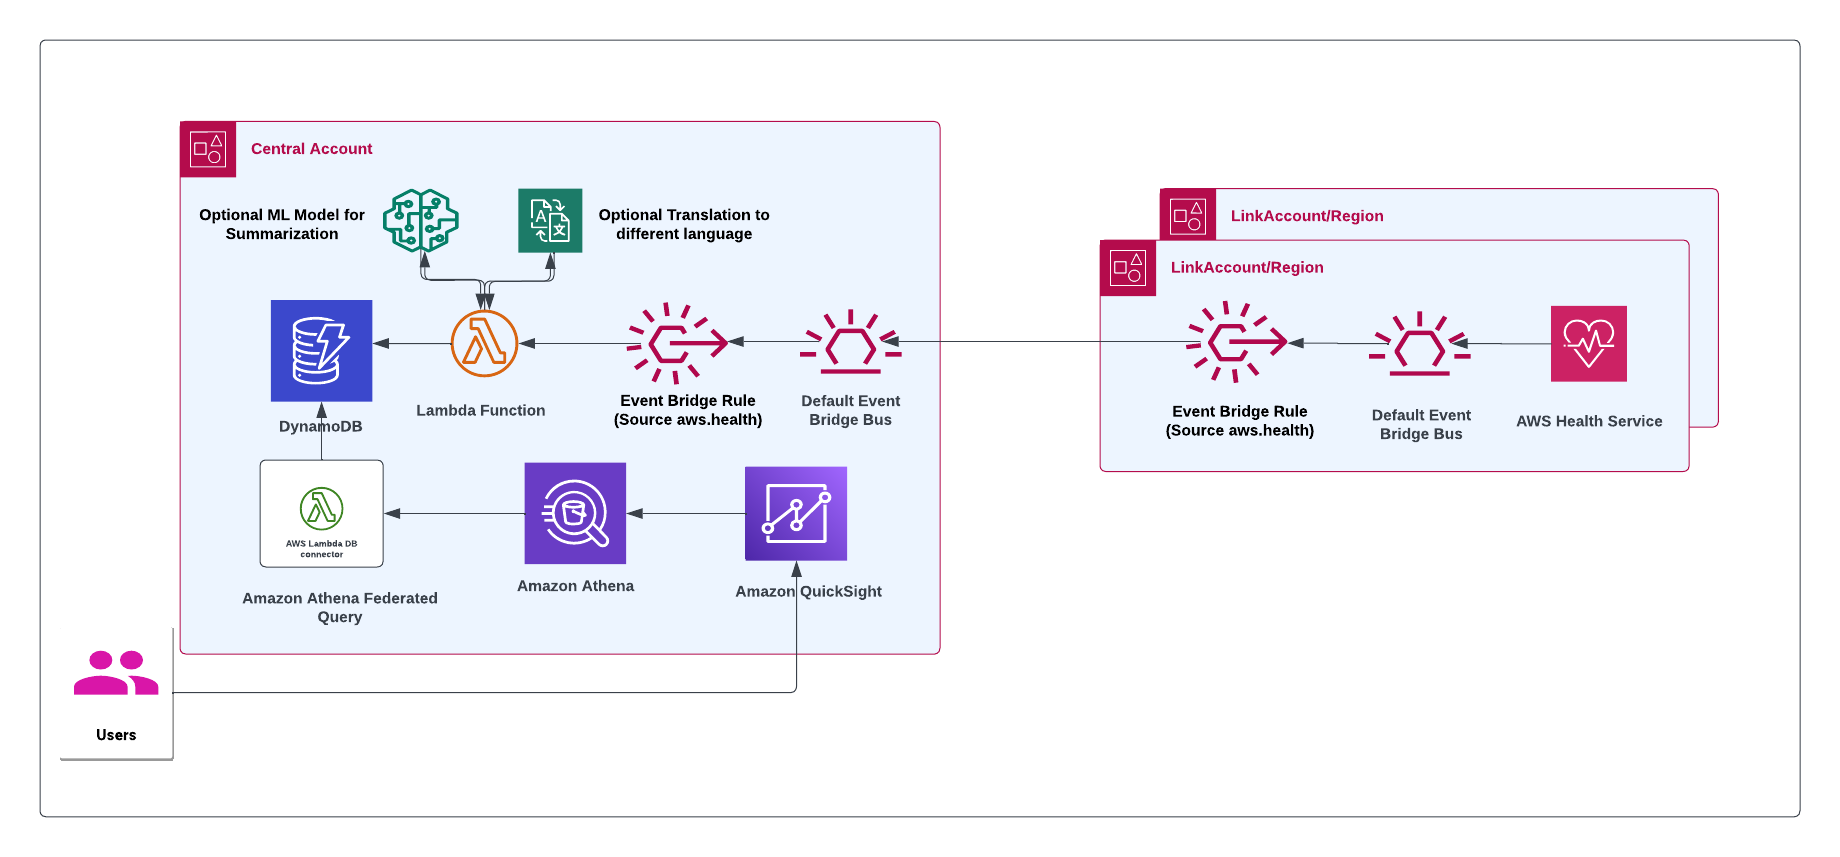
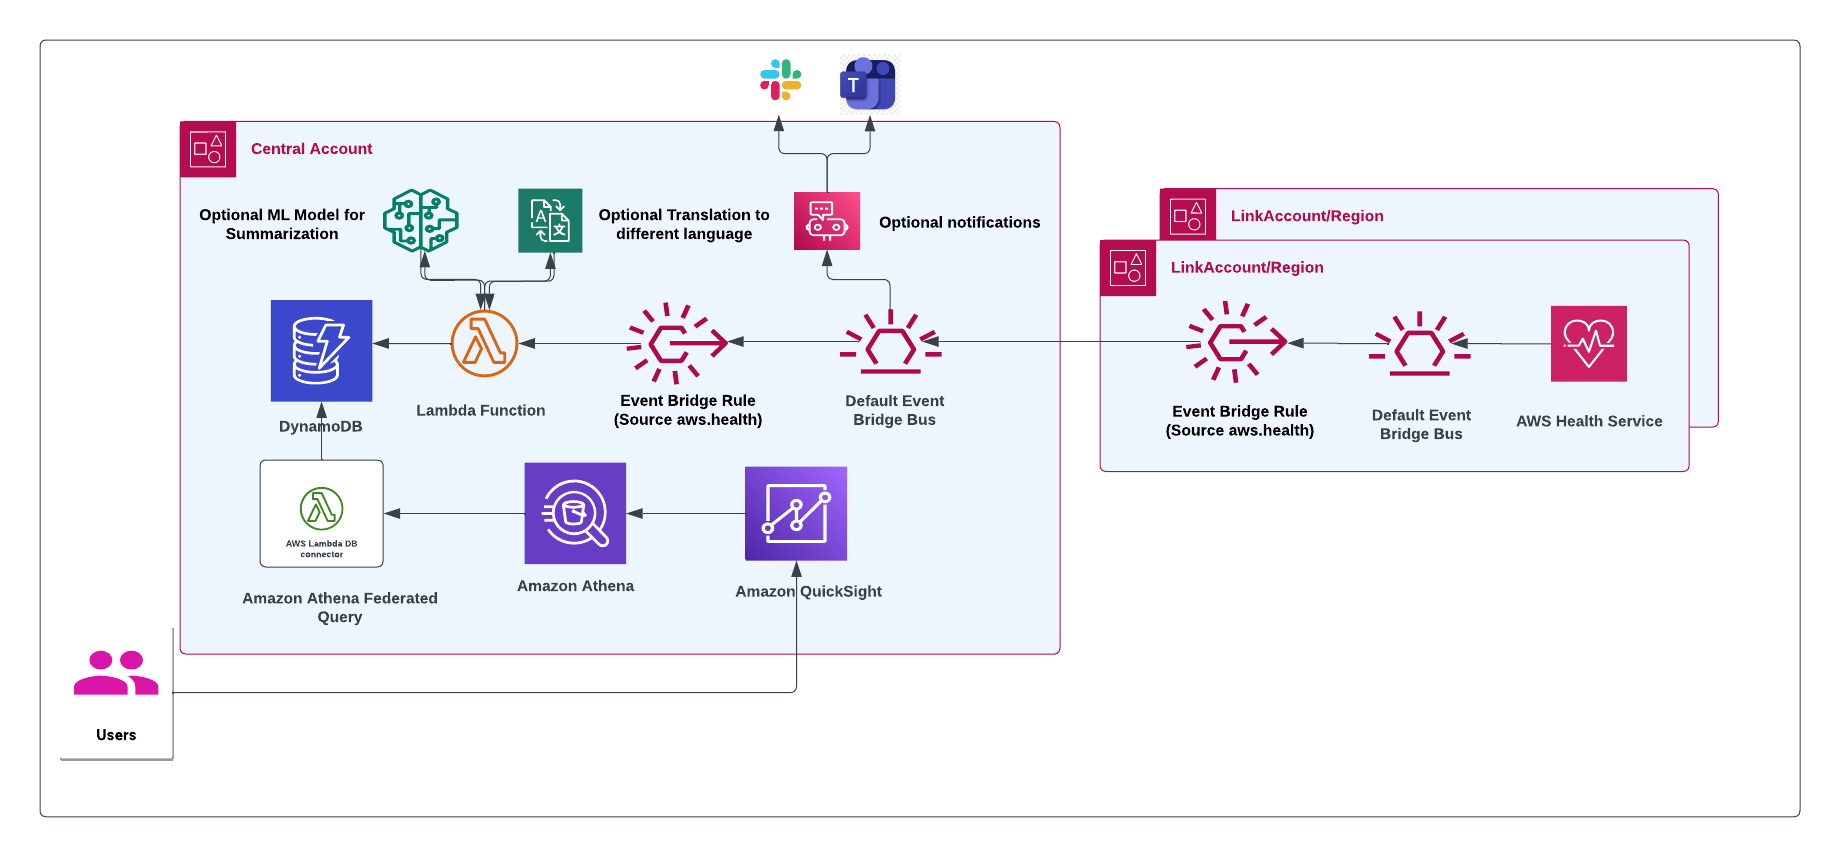
updated instruction for notification

Changed region(s): [[0.4337, 0.3641, 0.5266, 0.5158], [0.4027, 0.0607, 0.4957, 0.1517], [0.4337, 0.2124, 0.5576, 0.3034]]

diff --git a/sagemaker-jumpstart-setup.md b/sagemaker-jumpstart-setup.md
@@ -1,0 +1,24 @@
+# (Optional) Setup a SageMaker JumpStart text summarization model to summarize health events
+
+This solution can be optionally integrated with a SageMaker JumpStart text summarization model, which assists the end users to get a summary of each event from its event description. To incorporate event summarizations, you have the flexibility to utilize Amazon Sagemaker Large Language Model (LLM). For this sample, we used `huggingface-summarization-bart-large-cnn-samsum`. You can also choose to use an existing text summarization model provided you have an in-service SageMaker real-time inference endpoint. You need the SageMaker Inference Endpoint ARN to include this functionality.
+
+To deploy a SageMaker JumpStart text summarization model using the AWS Console, follow the steps below:
+
+1. Open your AWS Console and browse to *Amazon SageMaker* service.
+
+**Note:** Currently, you need to use the same account and region that is your _Central Account_ and where the event processing Lambda function resides.
+
+2. Open *SageMaker Studio*. If you haven't had an exisiting SageMaker Studio, follow the prompt to create a SageMaker domain. Consult your administrator on your organization requirements for choosing between quick and standard setups.
+
+3. On the Home page of Amazon SageMaker Studio, click on *JumpStart* and scroll down to the _Text Summarization_ section. Pick a text summarization model of your choice, e.g. Bart Large CNN samsum.
+![ALT](img/sagemakerJumpstart.jpg)
+
+4. On the new tab opened, review the deployment configuration and security settings and make necessary changes before clicking *Deploy*. 
+![ALT](img/sagemakerJumpstartDeployModel.jpg)
+
+**Note:** This solution has been tested on a SageMaker hosting for inference on `ml.m5.large` with the Bart Large CNN samsum model and it performed real-time synchronous inference in about 15-30 seconds per event.
+
+5. Wait for the model endpoint to be _InService_. You can check the status from *Launched JumpStart assets* -> * Model endpoints* and find the name of the endpoint you just deployed. Click on the name and note down the ARN as you will need it as an input to the health dashboard deployment.
+![ALT](img/sagemakerJumpstartEndpoint.jpg)
+
+For more information about SageMaker JumpStart, please refer to the [AWS documentation](https://docs.aws.amazon.com/sagemaker/latest/dg/studio-jumpstart.html).

diff --git a/README.md b/README.md
@@ -21,7 +21,8 @@ AWS Health events are generated by the AWS Health service in each account and re
 3. Verify Amazon Quicksight service has access to Amazon Athena. To enable, go to security and permissions under managed quicksight
 4. we will use SPICE to hold data. Go to SPICE capacity under manage quicksight and verify you have required spice.
 5. **Optional:** To ensure that the account name is included in analyses, the Central account needs to have the ability to describe AWS Organization accounts.
-6. **Optional:** To incorporate event summarizations, you have the flexibility to utilize Amazon Sagemaker Language Model (LLM). For this sample, we used huggingface-summarization-bart-large-cnn-samsum model. By providing the model endpoint ARN as user input, you can include this functionality. Please see  ![huggingface-summarization-bart-large-cnn-samsum.md](https://github.com/aws-samples/aws-health-events-insight/blob/main/huggingface-summarization-bart-large-cnn-samsum.md) for more information.
+6. **Optional:** To incorporate event summarizations, you have the flexibility to utilize Amazon Sagemaker Language Model (LLM). For this sample, we used huggingface-summarization-bart-large-cnn-samsum model. By providing the model endpoint ARN as user input, you can include this functionality. Please see  ![sagemaker-jumpstart-setup](https://github.com/aws-samples/aws-health-events-insight/blob/main/sagemaker-jumpstart-setup.md) to get started.
+7. **Optional:** To enable notification functionality, AWS Heidi offers support for notifications through the AWS UserNotification service and AWS Chatbot. With this feature, you can receive notifications delivered to platforms such as Slack, Teams, and more. For the setup instructions, please refer to the ![notification.md](https://github.com/aws-samples/aws-health-events-insight/blob/main/notification.md) to configure notifications."
 
 # Deploying the solution
 

diff --git a/notification.md b/notification.md
@@ -1,0 +1,19 @@
+# Setup AWS-Heidi Notifications
+
+To enable receiving notifications on Slack or Teams from AWS-Heidi, the setup process comprises two essential steps.
+1. Setting AWS Chatbot
+2. Configure AWS notifications
+
+# Setting AWS Chatbot
+AWS Chatbot is an AWS service that enables DevOps and software development teams to use messaging program chat rooms to monitor and respond to operational events in their AWS Cloud. AWS Chatbot processes AWS service notifications from Amazon Simple Notification Service (Amazon SNS), and forwards them to chat rooms so teams can analyze and act on them immediately, regardless of location.
+
+1. To setup AWS Chatbot with slack, please visit this this step by step tutorial: ![Chatbot-Setup-with-slack](https://docs.aws.amazon.com/chatbot/latest/adminguide/slack-setup.html).
+2. To setup AWS Chatbot with Amazon Chime, please visit this this step by step tutorial: ![Chatbot-Setup-with-chime](https://docs.aws.amazon.com/chatbot/latest/adminguide/chime-setup.html).
+3. To setup AWS Chatbot with slack, please visit this this step by step tutorial: ![Chatbot-Setup-with-teams](https://docs.aws.amazon.com/chatbot/latest/adminguide/teams-setup.html).
+
+# Configure AWS notifications
+1. Access the AWS user notification section.
+2. Choose the option to create notification configurations and enter a name and description.
+3. Within the event section, select "health" as the AWS service name and choose "specific health events" as the event type.
+4. Pick the region where your central account setup is deployed.
+5. Configure AWS Chatbot as the delivery channel and select the AWS Chatbot instance set up in the previous step titled "Setting AWS Chatbot."
